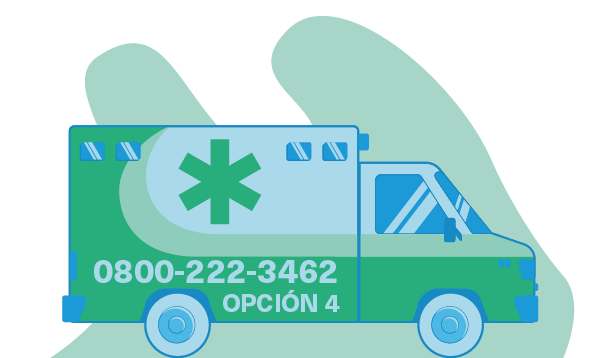
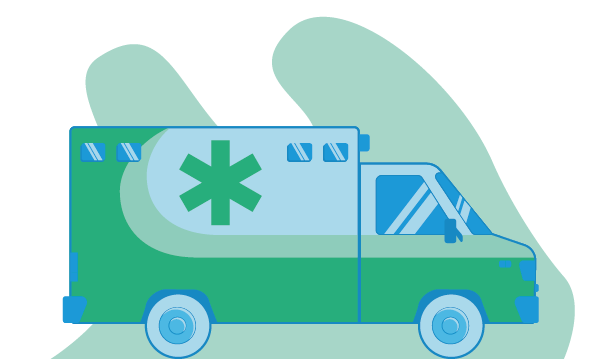
img familia

diff --git a/index.html b/index.html
@@ -109,24 +109,7 @@
     <!-- cards -->
     <!-- ##### -->
     <section class="cards">
-        <div class="cards__card cards__card-big">
-            <img src="./imagenes/icono_discapacidad.png" alt="">
-            <div class="cards__card__body">
-                <h3 class="cards__card__body-titulo">manual instructivo de discapacidad</h3>
-                <p>Instructivo para beneficiarios 2023</p>
-                <a href="" class="cards__card__body-item"><i class="fa-solid fa-download fa-2xl"></i><p>Descargue aquí el  manual de procedimineto</p></a>
-                <a href="" class="cards__card__body-item"><i class="fa-solid fa-download fa-2xl"></i><p>Descargue aquí los  formularios</p></a>
-                <br>
-                <p>Otros Links de Interes</p>
-                <!-- <div class="cards__card__body-item"> -->
-                <a href="" class="cards__card__body-item"><i class="fa-solid fa-download fa-2xl"></i><p>guia de prestaciones</p></a>
-                <a href="" class="cards__card__body-item"><i class="fa-solid fa-download fa-2xl"></i><p>resumen de historia clínica</p></a>
-                <a href="" class="cards__card__body-item"><i class="fa-solid fa-download fa-2xl"></i><p>instructivo de facturación</p></a>
-                <a href="" class="cards__card__body-item"><i class="fa-solid fa-download fa-2xl"></i><p>anexo II</p></a>
-                <a href="" class="cards__card__body-item"><i class="fa-solid fa-download fa-2xl"></i><p>anexo III</p></a>
-            <!-- </div> -->
-            </div>
-        </div>
+        
         <div class="cards__card">
             <img src="./imagenes/ImagenVacuna.png" alt="">
             <div class="cards__card__body">
@@ -153,23 +136,41 @@
             <div class="cards__card__body">
                 <h3 class="cards__card__body-titulo">traslados</h3>
                 <p>Traslados y derivaciones</p>
-                <p>0800-222-3462</p>
-                <p>opción 4</p>
-                <br>
-                <p>Normativa Traslados Programados</p>
-                <a href="" class="cards__card__body-item"><i class="fa-solid fa-download fa-2xl"></i><p>Anexo I</p></a>
-                <br>
-                <p>Formulario Solicitud de Servicios de Traslados</p>
-                <a href="" class="cards__card__body-item"><i class="fa-solid fa-download fa-2xl"></i><p>Anexo II</p></a>
+                <p><b>0800-222-3462</b></p>
+                <p><b>Opción 4</b></p>
+                <div class="cards__card__body-bd">
+                    <p>Normativa Traslados Programados</p>
+                    <a href="" class="cards__card__body-item"><i class="fa-solid fa-download fa-2xl"></i><p>Anexo I</p></a>
+                    <p>Formulario Solicitud de Servicios de Traslados</p>
+                    <a href="" class="cards__card__body-item"><i class="fa-solid fa-download fa-2xl"></i><p>Anexo II</p></a>
+                </div>
             </div>
         </div>
         <div class="cards__card">
-            <img src="./imagenes/ImagenVacuna.png" alt="">
+            <img src="./imagenes/familia.png" alt="">
             <div class="cards__card__body">
                 <h3 class="cards__card__body-titulo">afiliado adherente</h3>
                 <p>Estimado afiliado, ingrsando en link puede acceder a ver los valores y actualizaciones de la cuota.</p>
                 <br>
                 <a href="" class="cards__card__body-item"><i class="fa-solid fa-caret-right fa-2xl"></i></i><p>Ver más...</p></a>
+            </div>
+        </div>
+        <div class="cards__card cards__card-big">
+            <img src="./imagenes/icono_discapacidad.png" alt="">
+            <div class="cards__card__body">
+                <h3 class="cards__card__body-titulo">manual instructivo de discapacidad</h3>
+                <p>Instructivo para beneficiarios 2023</p>
+                <a href="" class="cards__card__body-item"><i class="fa-solid fa-download fa-2xl"></i><p>Descargue aquí el  manual de procedimineto</p></a>
+                <a href="" class="cards__card__body-item"><i class="fa-solid fa-download fa-2xl"></i><p>Descargue aquí los  formularios</p></a>
+                <br>
+                <p>Otros Links de Interes</p>
+                <!-- <div class="cards__card__body-item"> -->
+                <a href="" class="cards__card__body-item"><i class="fa-solid fa-download fa-2xl"></i><p>guia de prestaciones</p></a>
+                <a href="" class="cards__card__body-item"><i class="fa-solid fa-download fa-2xl"></i><p>resumen de historia clínica</p></a>
+                <a href="" class="cards__card__body-item"><i class="fa-solid fa-download fa-2xl"></i><p>instructivo de facturación</p></a>
+                <a href="" class="cards__card__body-item"><i class="fa-solid fa-download fa-2xl"></i><p>anexo II</p></a>
+                <a href="" class="cards__card__body-item"><i class="fa-solid fa-download fa-2xl"></i><p>anexo III</p></a>
+            <!-- </div> -->
             </div>
         </div>
     </section>

diff --git a/css/style.css b/css/style.css
@@ -223,23 +223,43 @@ footer span, i {
   color: #009ADA; }
 
 .cards__card__body h3 {
+  font-size: 3rem;
+  font-family: urbane, sans-serif;
   text-transform: capitalize;
   margin-bottom: 3rem; }
 
 .cards__card__body p {
   text-align: center;
-  width: 100%; }
+  width: 100%;
+  margin-top: 2rem; }
+  .cards__card__body p b {
+    font-family: urbane, sans-serif;
+    font-size: 3rem; }
+
+.cards__card__body-bd {
+  display: grid;
+  grid-template-columns: 2fr 1fr;
+  gap: 3rem;
+  row-gap: 1rem; }
+  .cards__card__body-bd p {
+    text-align: center; }
+    .cards__card__body-bd p b {
+      font-family: urbane, sans-serif;
+      font-size: 3rem; }
+  @media only screen and (max-width: 37.5em) {
+    .cards__card__body-bd {
+      grid-template-columns: 1fr; } }
 
 .cards__card__body-item {
-  margin-top: 2rem;
   display: flex;
   align-items: center;
+  justify-content: center;
   text-decoration: none;
   text-transform: uppercase;
   font-weight: 600; }
 
 footer {
-  padding: 3rem;
+  padding: 3rem 6rem;
   height: 100vh; }
   @media only screen and (max-width: 37.5em) {
     footer {
@@ -590,7 +610,7 @@ nav > ul {
   display: grid;
   grid-template-columns: repeat(4, 1fr);
   gap: 0;
-  padding: 3rem; }
+  padding: 3rem 6rem; }
   @media only screen and (max-width: 37.5em) {
     .nav {
       padding: 0; } }
@@ -653,6 +673,10 @@ nav > ul {
   @media only screen and (max-width: 56.25em) {
     .cards {
       grid-template-columns: 1fr; } }
+  @media only screen and (max-width: 37.5em) {
+    .cards {
+      padding: 3rem;
+      gap: 3rem; } }
   .cards__card {
     display: grid;
     justify-content: center;
@@ -670,7 +694,6 @@ nav > ul {
       grid-template-rows: auto;
       gap: 3rem;
       grid-column: 1/3;
-      grid-row: 3;
       grid-template-columns: repeat(2, 1fr); }
       @media only screen and (max-width: 56.25em) {
         .cards__card-big {
@@ -682,7 +705,8 @@ nav > ul {
     @media only screen and (max-width: 37.5em) {
       .cards__card {
         grid-template-columns: auto;
-        justify-content: center; } }
+        justify-content: center;
+        padding: 6rem 3rem; } }
     .cards__card > img {
       align-self: end;
       max-height: 100%;

diff --git a/sass/base/_typography.scss b/sass/base/_typography.scss
@@ -234,18 +234,46 @@ footer span,i {
                 color: $azul-logo;
             }
             & h3 {
+                font-size: 3rem;
+                font-family: urbane, sans-serif;
                 text-transform: capitalize;
                 margin-bottom: 3rem;
             }
             & p {
                 text-align: center;
                 width: 100%;
+                margin-top: 2rem;
+                & b {
+                    font-family: urbane, sans-serif;
+                    font-size: 3rem;
+                }
+            }
+            
+            &-bd {
+                display: grid;
+                grid-template-columns: 2fr 1fr;
+                gap: 3rem;
+                row-gap: 1rem;
+                // justify-content: space-between;
+                & p {
+                    text-align: center;
+                    // width: 100%;
+                    // margin-top: 2rem;
+                    & b {
+                        font-family: urbane, sans-serif;
+                        font-size: 3rem;
+                    }
+                }
+                @include respond(phone) {
+                    grid-template-columns: 1fr;
+                }
             }
             
             &-item {
-                margin-top: 2rem;
+                // margin-top: 2rem;
                 display: flex;
                 align-items: center;
+                justify-content: center;
                 text-decoration: none;
                 text-transform: uppercase;
                 font-weight: 600;

diff --git a/sass/layout/_cards.scss b/sass/layout/_cards.scss
@@ -9,6 +9,11 @@
         grid-template-columns: 1fr;
     }
 
+    @include respond(phone) {
+        padding: 3rem;
+        gap: 3rem;
+    }
+
     &__card {
         display: grid;
         justify-content: center;
@@ -27,7 +32,7 @@
             grid-template-rows: auto;
             gap: 3rem;
             grid-column: 1/3;
-            grid-row: 3;
+            // grid-row: 3;
             grid-template-columns:  repeat(2, 1fr);
 
             @include respond(tab-port)  {
@@ -45,6 +50,7 @@
         @include respond(phone)  {
             grid-template-columns: auto;
             justify-content: center;
+            padding: 6rem 3rem;
         }
 
         & > img {

diff --git a/sass/layout/_nav.scss b/sass/layout/_nav.scss
@@ -6,7 +6,7 @@
     display: grid;
     grid-template-columns: repeat(4, 1fr);
     gap: 0;
-    padding: 3rem;
+    padding: 3rem 6rem;
     
     @include respond(phone) {
         padding: 0;

diff --git a/sass/components/_footer.scss b/sass/components/_footer.scss
@@ -1,5 +1,5 @@
 footer {
-    padding: 3rem;
+    padding: 3rem 6rem;
     height: 100vh;
         @include respond(phone) {
         padding: 1.5rem;
